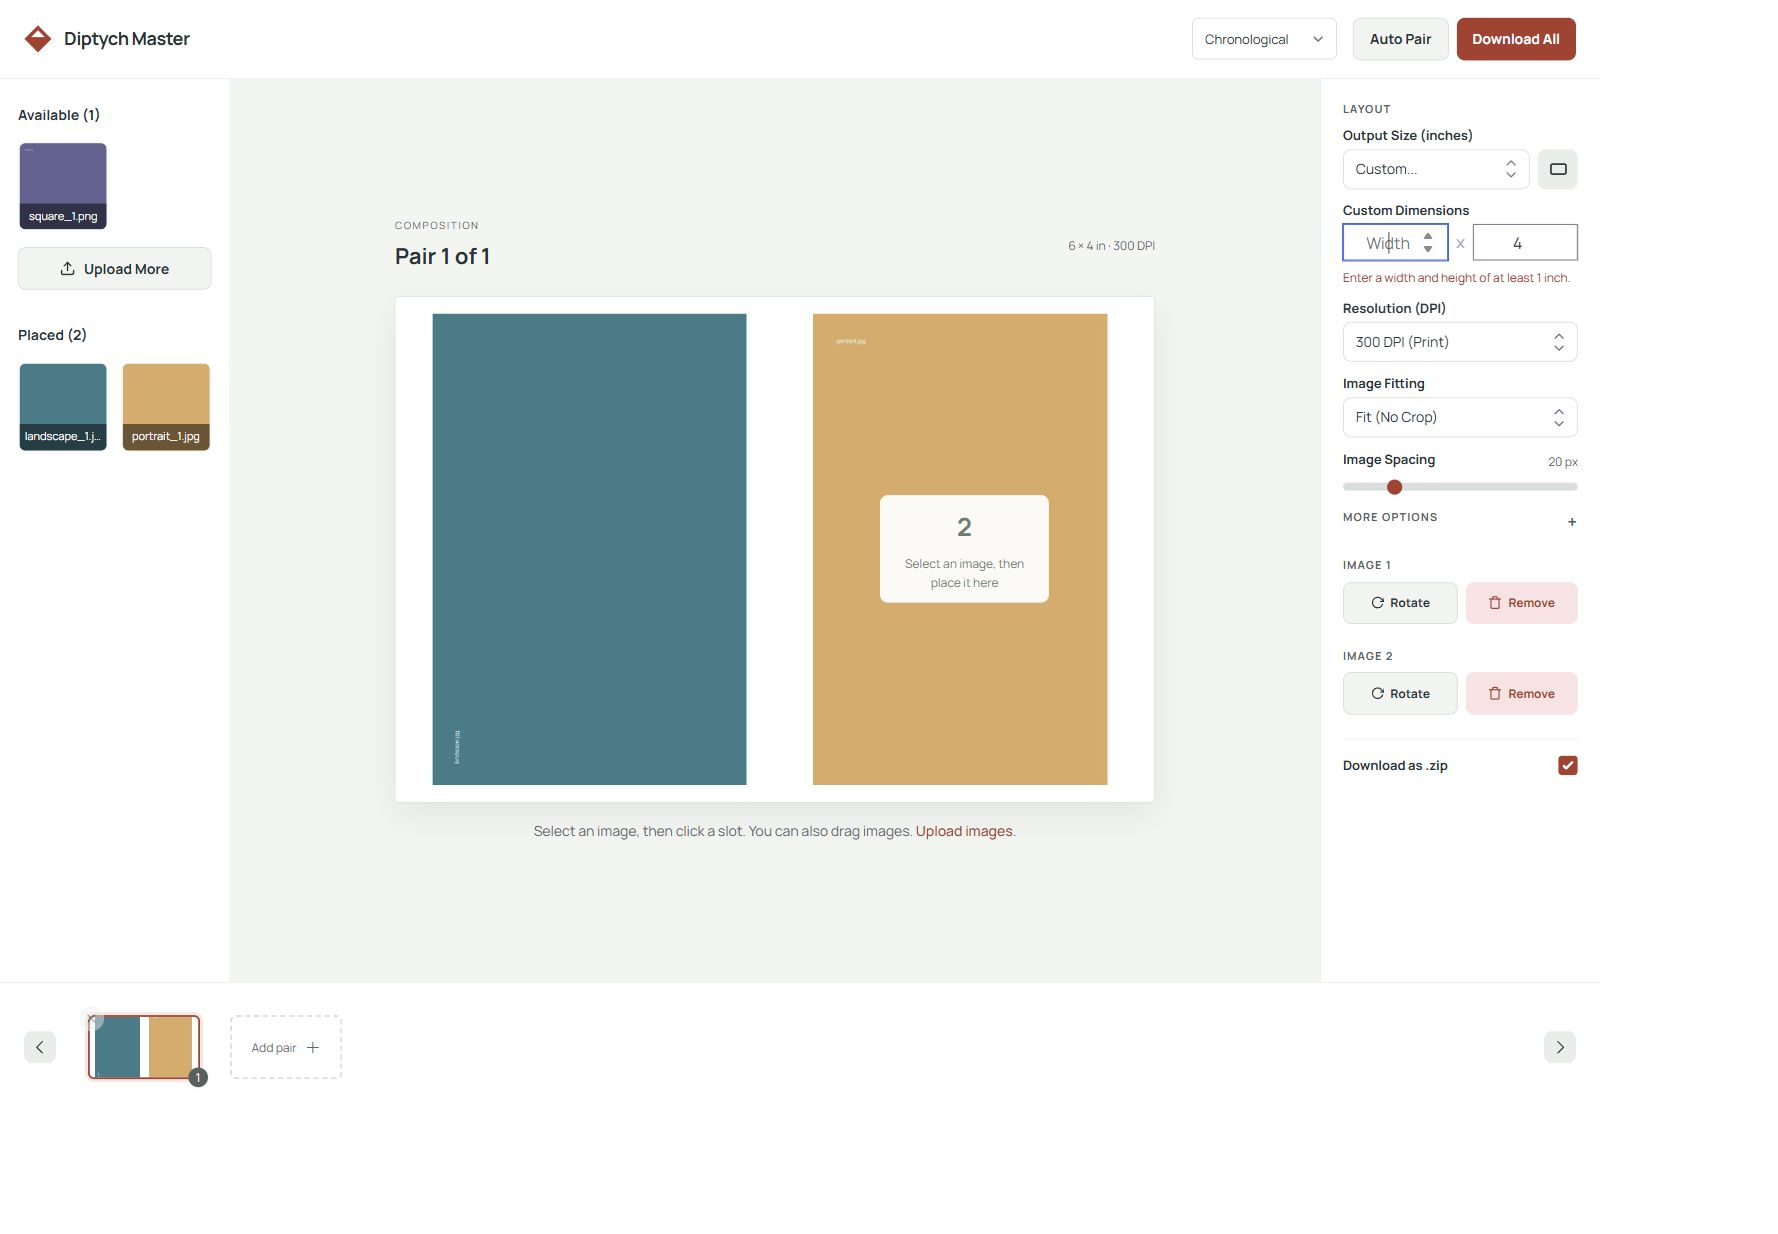
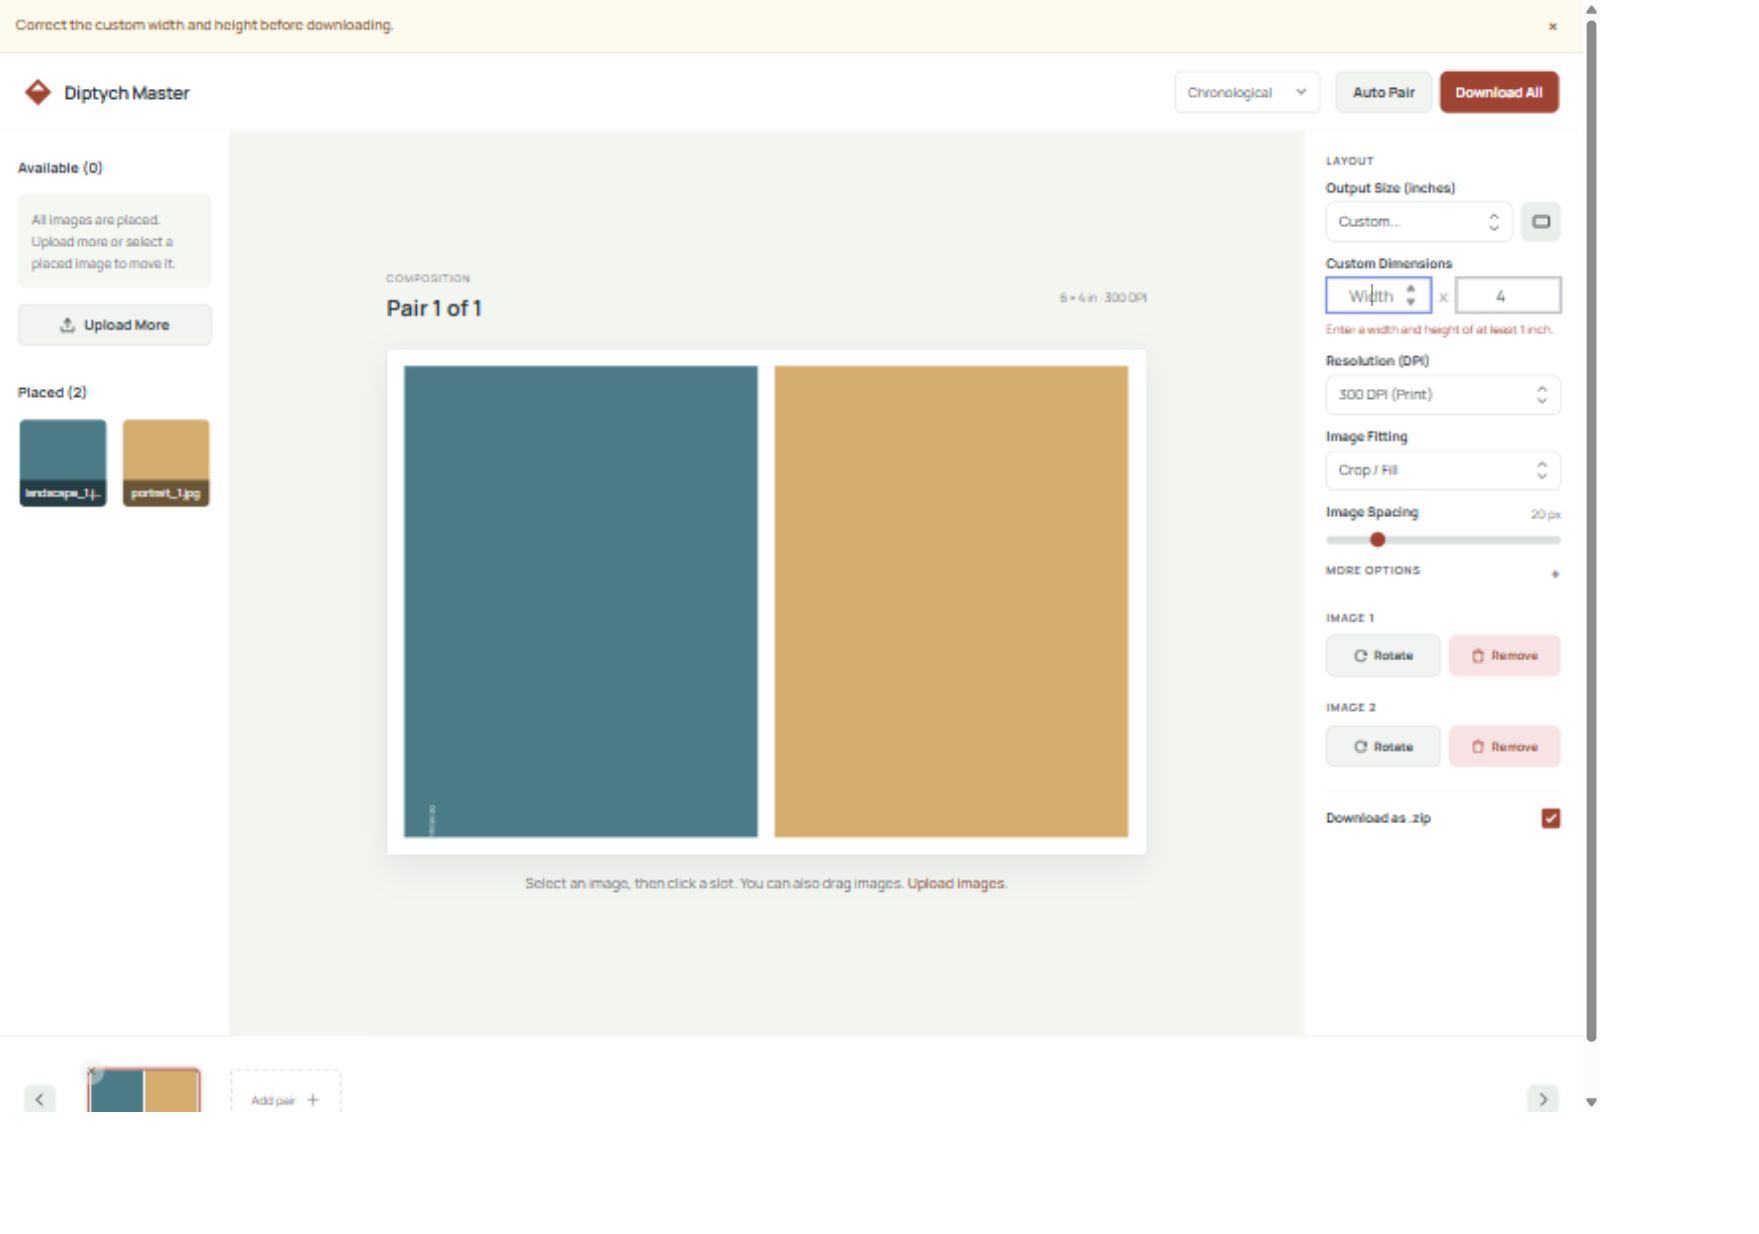
Record final browser export guard verification

diff --git a/docs/UI_REVIEW.md b/docs/UI_REVIEW.md
@@ -53,3 +53,5 @@ UI-01 through UI-03 and UI-05 through UI-14 are implemented. UI-04 has a minimal
 ## Future assessment notes
 
 Screenshots use synthetic blocks to make layout and state transitions obvious. A later reviewer should repeat with a larger collection of real photos, long filenames and mixed photographic subjects to evaluate crop decisions and library scanning. Phone-specific polish remains deferred. The app continues to load its existing Tailwind/Sortable/font dependencies from CDNs.
+
+Final browser check after push: invalid Custom width + Download All displayed "Correct the custom width and height before downloading" and focused the width field; corrected to 6 inches and restored preset. Updated after-invalid-dimensions.jpg captures this export guard. Browser viewport override reset; editor left open for inspection.
